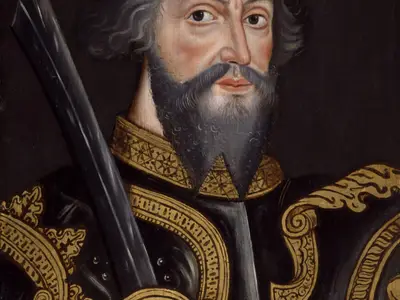
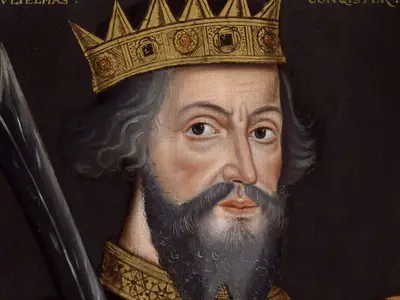
re-crop William portrait to show full face

diff --git a/england.html b/england.html
@@ -600,7 +600,7 @@ img{max-width:100%;display:block}
 
       <a href="/england/william-the-conqueror" class="history-card reveal" style="transition-delay:.1s">
         <div class="hc-image">
-          <img src="/img/en/william-the-conqueror.webp?v=8" alt="William the Conqueror" loading="lazy" width="800" height="600" style="object-position:center 100%" onerror="this.parentElement.style.background='linear-gradient(135deg,#1d2a47,#2d1f1f)'">
+          <img src="/img/en/william-the-conqueror.webp?v=10" alt="William the Conqueror" loading="lazy" width="800" height="600" onerror="this.parentElement.style.background='linear-gradient(135deg,#1d2a47,#2d1f1f)'">
           <span class="hc-date">1028-1087</span>
         </div>
         <div class="hc-body">
